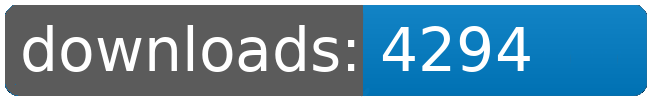
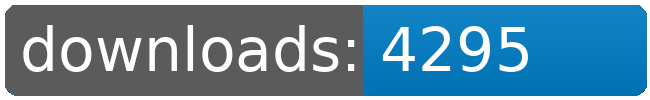
dl log written

Changed region(s): [[0.7692, 0.27, 0.8308, 0.72]]

diff --git a/README.md b/README.md
@@ -21,8 +21,8 @@
 		<td>4253</td>
 		<td>4270</td>
 		<td>4285</td>
-		<td>4294</td>
-		<td>+ 9</td>
+		<td>4295</td>
+		<td>+ 10</td>
 	</tr>
 	<tr>
 		<td>Factory.Outlets</td>
@@ -109,8 +109,8 @@
 		<td></td>
 		<td></td>
 		<td></td>
-		<td>35651</td>
-		<td>93</td>
+		<td>35652</td>
+		<td>94</td>
 	</tr>
 </table>
 </sub></sup>
@@ -168,8 +168,8 @@
 		<td>4253</td>
 		<td>4270</td>
 		<td>4285</td>
-		<td>4294</td>
-		<td>+ 9</td>
+		<td>4295</td>
+		<td>+ 10</td>
 	</tr>
 	<tr>
 		<td>Solar.Sails</td>
@@ -223,8 +223,8 @@
 		<td></td>
 		<td></td>
 		<td></td>
-		<td>35651</td>
-		<td>93</td>
+		<td>35652</td>
+		<td>94</td>
 	</tr>
 </table>
 </sub></sup>
